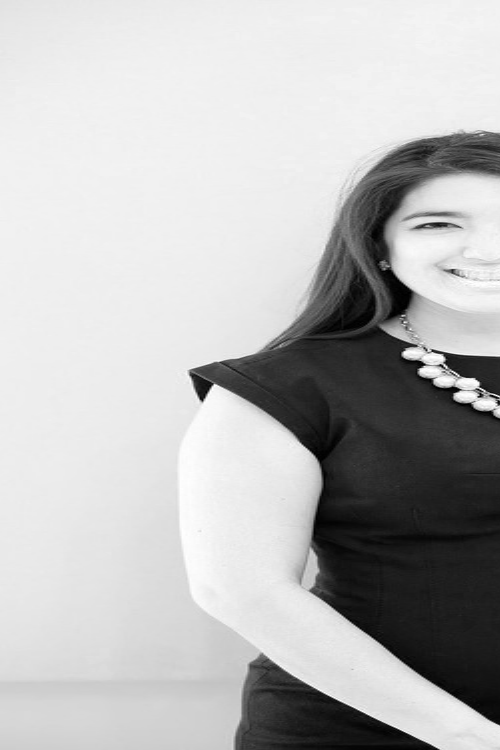
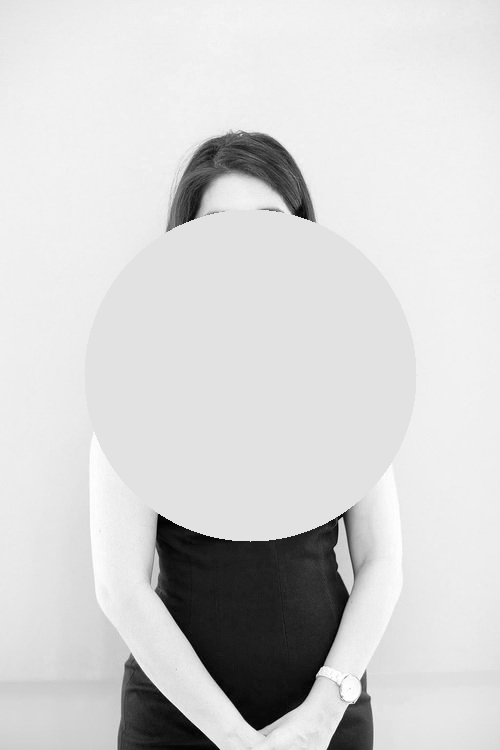
start CircleModifier implementation

diff --git a/WackyCamera/src/util/UnitVec.java b/WackyCamera/src/util/UnitVec.java
@@ -1,0 +1,40 @@
+package util;
+
+public class UnitVec {
+
+	//Data storage
+	private double dx, dy;
+
+	public UnitVec(double dx, double dy) {
+		this.dx = dx;
+		this.dy = dy;
+
+		if (this.length2() > 1.0)
+			this.normalize();
+	}
+
+	//Getters
+	public double dx() { return dx; }
+	public double dy() { return dy; }
+
+	//Setters
+	public void set(double dx, double dy) { set(dx, dy, false); }
+	public void set(double dx, double dy, boolean isNormalized) {
+		this.dx = dx;
+		this.dy = dy;
+
+		if (!isNormalized)
+			normalize();
+	}
+
+	//Length getters
+	public double length2() { return Math.pow(dx, 2) + Math.pow(dy, 2);}
+	public double length() { return Math.sqrt(length()); }
+
+	//Private normalize
+	private void normalize() {
+		double dist = length();
+		dx /= dist;
+		dy /= dist;
+	}
+}

diff --git a/WackyCamera/src/modifiers/CircleModifier.java b/WackyCamera/src/modifiers/CircleModifier.java
@@ -1,0 +1,30 @@
+package modifiers;
+
+import util.Point;
+
+public class CircleModifier implements Modifier {
+
+	public CircleModifier(int cx, int cy, double radius) {
+		this.center = new Point(cx, cy);
+		this.radius2 = Math.pow(radius, 2.0);
+	}
+
+	@Override
+	public Point translate(double x, double y) {
+		//Get the point
+		Point p = new Point(x, y);
+
+		//Get difference of radius and distance to center
+		double dist = radius2 - Point.dist2(p,  center);
+
+		//Return normal point if outside the circle radius
+		if (dist < 0)
+			return new Point(x, y);
+
+		return new Point(0, 0);
+	}
+
+	Point center;
+	double radius2;
+
+}

diff --git a/WackyCamera/src/util/Point.java b/WackyCamera/src/util/Point.java
@@ -6,6 +6,13 @@ public class Point {
 		this.y = y;
 	}
 
+	//Translate by a unit vector
+	public Point translate(UnitVec v) { return translate(v, 1.0); }
+	public Point translate(UnitVec v, double dist) { return new Point(x + v.dx() * dist, y + v.dy() * dist); }
+
+	public static double dist2(Point p1, Point p2) { return Math.pow(p1.x - p2.x, 2) + Math.pow(p1.y - p2.y, 2.0); }
+	public static double dist(Point p1, Point p2) { return Math.sqrt(dist2(p1, p2)); }
+
 	public double x;
 	public double y;
 }

diff --git a/WackyCamera/src/Main.java b/WackyCamera/src/Main.java
@@ -4,6 +4,7 @@ import java.io.IOException;
 
 import javax.imageio.ImageIO;
 
+import modifiers.CircleModifier;
 import modifiers.Modifier;
 import modifiers.TestModifier;
 
@@ -48,7 +49,7 @@ public class Main {
 		}
 
 		//Apply the modifier
-		Modifier mod = new TestModifier();
+		Modifier mod = new CircleModifier(width / 2, height / 2, Math.min(width, height) / 3);
 		pixels = Interpolate.interpolate(pixels, width, height, mod);
 
 		//Update the image
